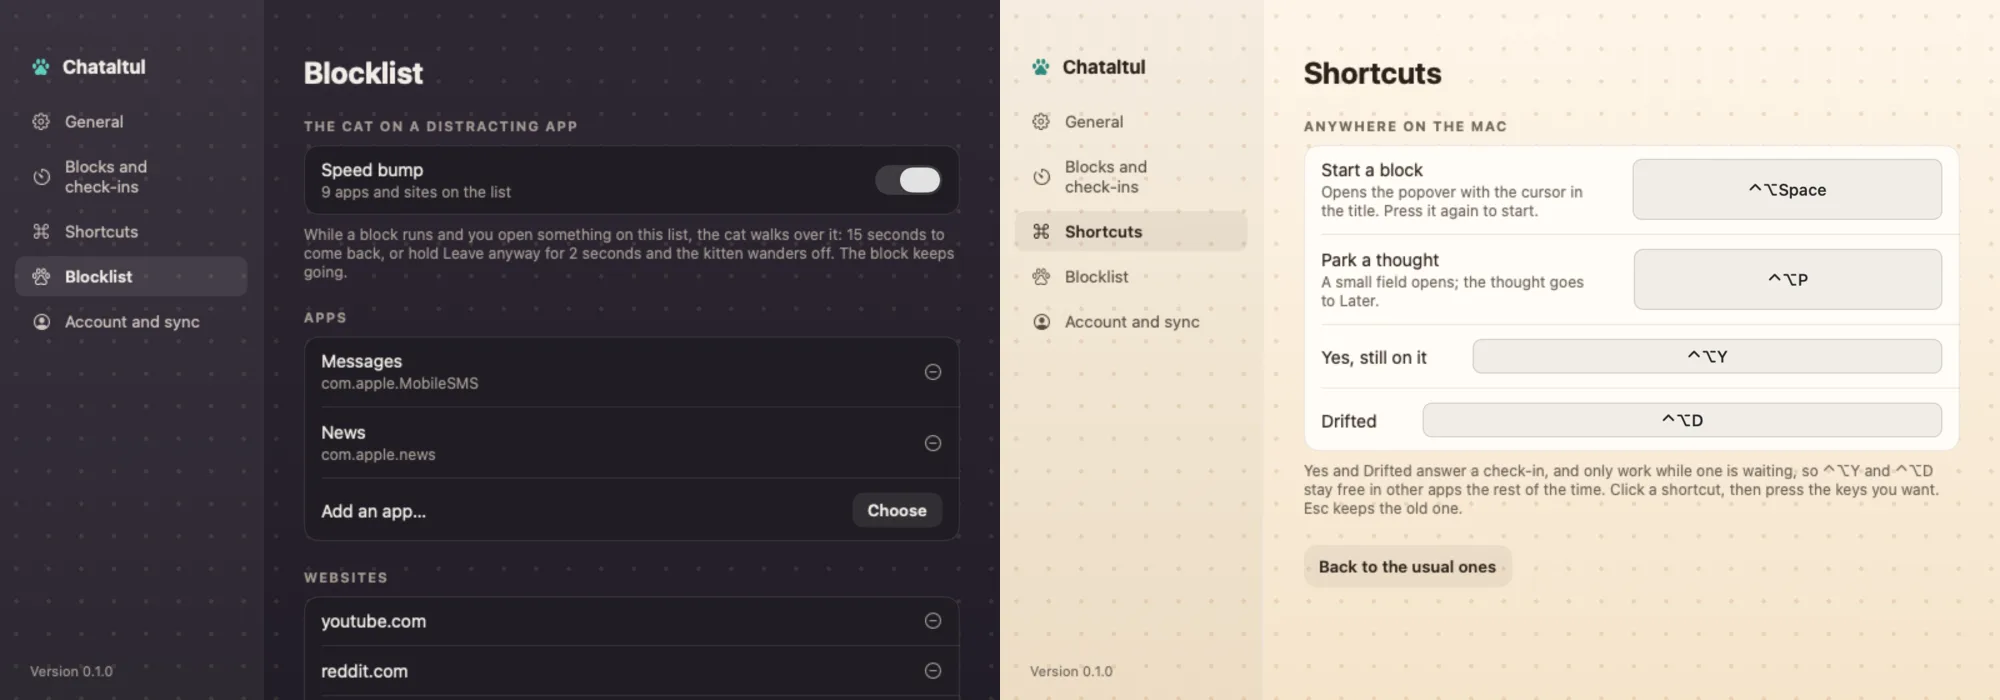
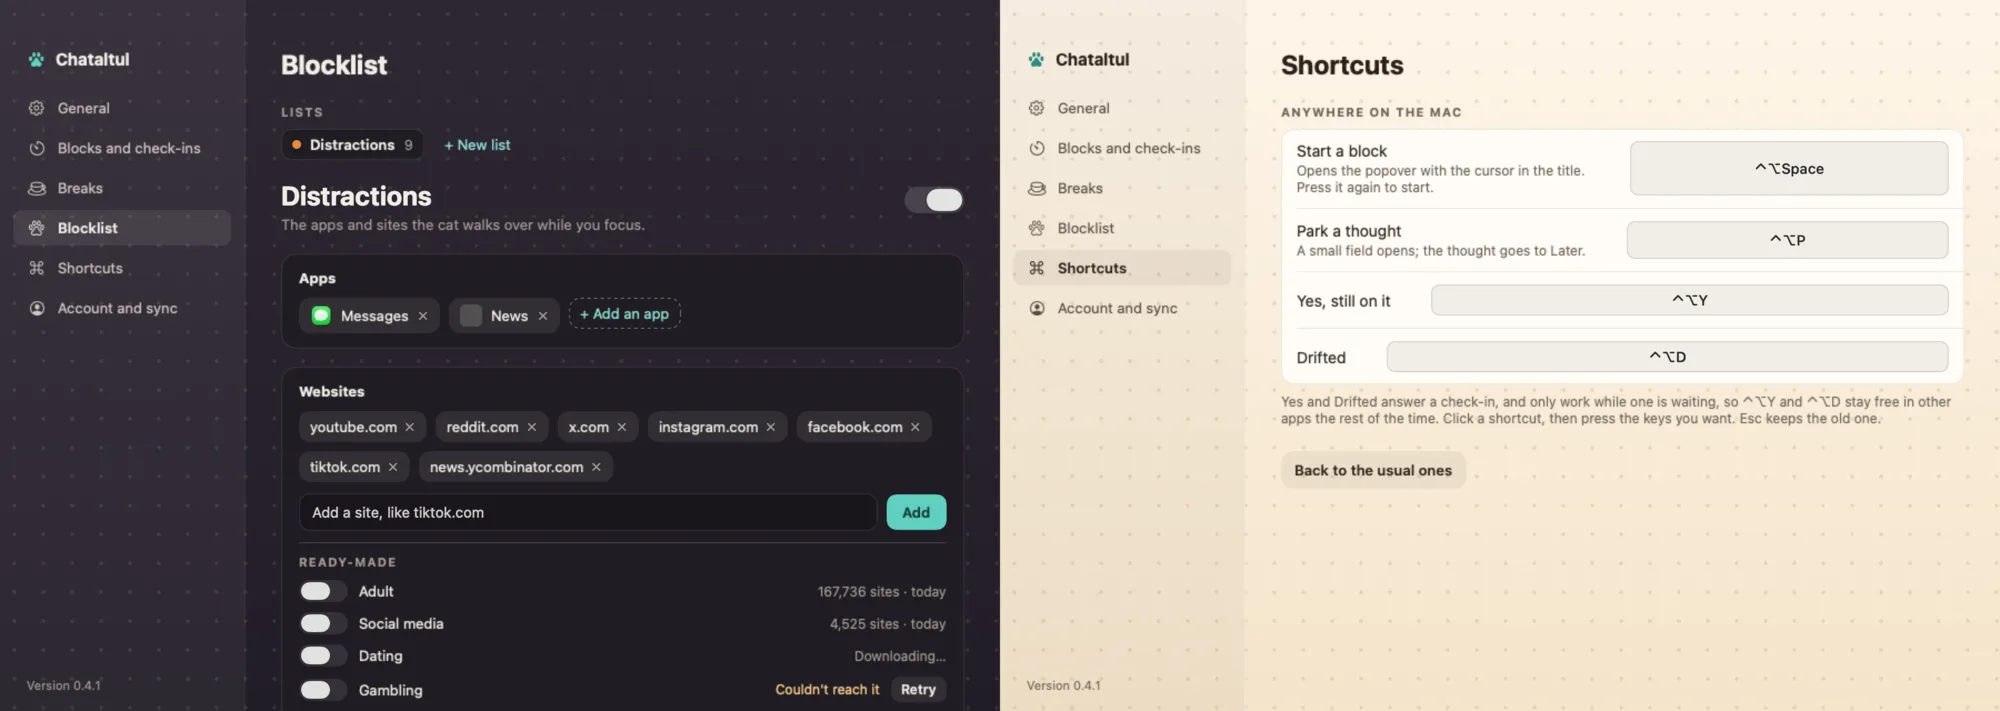
README: 0.4 is out, 0.4.1's Settings, and a new Settings picture
The ready-made lists were still under "Next, not released yet" after 0.4.0.
The Settings picture was from 0.1; it now shows the Blocklist as it is in
the Settings window today, drawn by the self-test.

diff --git a/README.md b/README.md
@@ -106,8 +106,9 @@ What it does:
 - **Export** from Today: the blocks as a spreadsheet (CSV), where the time went as a spreadsheet, and the review in words as Markdown.
 - **Focus on the Mac.** Settings has two boxes for the names of Shortcuts to run when a block starts and when it ends. Chataltul can't set a Focus itself, but a Shortcut with "Set Focus" can. I haven't tried Slack's status: that needs a token kept somewhere, and I'd rather not until the rest has been used for a while.
 
-**Next, not released yet:**
+**Version 0.4:**
 - **Ready-made lists of websites.** Each list in the Blocklist can switch on Adult, Social media, Dating, Gambling, Games, Video and music, News or Shopping, on top of the sites I type. They are public lists: UT1 Toulouse (CC BY-SA 4.0), StevenBlack's hosts files (MIT) and Hagezi's DNS blocklists (GPL-3.0). None of them is bundled. When I switch one on, this Mac downloads it over https and keeps a short code for each site, not the names, then looks again about once a week. A download that goes wrong (an error, a web page instead of a list, a list that is nearly empty) never replaces the copy already here. **Always allow** keeps a site out of a category, like linkedin.com out of Social media. **Add a list from a link** takes any https link to a hosts file, a plain list of domains or an AdGuard list. Only the site that hosts a list sees that it was downloaded; nothing about me is sent.
+- **0.4.1: Settings.** ⌘, opens Settings, which it didn't before. The Settings window can be made bigger, and when it's narrow the Blocklist page puts everything in one column instead of running off the side.
 
 ![The Websites part of the Blocklist with the ready-made lists: some downloaded, one on its way, one that couldn't be reached, and one added by link](docs/mac-lists.webp)
 
